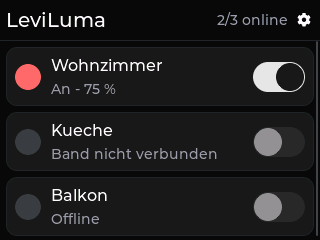
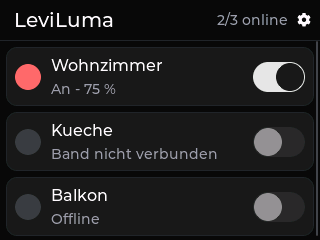
RockBase-UI: einheitliche Raender auf allen Bildschirmen
Kaesten (Karten, Listen-Buttons, Eingabefeld, Tastatur) nutzen die volle
Inhaltsbreite mit 6 px Rand, ihr Inhalt ist um 8 px eingerueckt. Texte,
Buttons und Zeilen direkt im Inhaltsbereich oder in Listen werden ebenso
eingerueckt (uiLabel, uiButton, uiRow, uiListButton, Kopfzeile ohne
Zurueck-Knopf). Damit beginnen Texte und freie Buttons ueberall bei 14 px.
Screenshots neu erzeugt.

Claude-Session: https://claude.ai/code/session_01XRbTNR4FRdpa3sNittWBxo

Changed region(s): [[0.0, 0.0292, 0.375, 0.1167]]

diff --git a/next/controller/main/ui_common.cpp b/next/controller/main/ui_common.cpp
@@ -9,6 +9,18 @@
 bool uiHoldScreen = false; // Touch-Kalibrierung und Kalibrierassistent nicht unterbrechen
 
 static UiRefreshFn refreshFn = nullptr;
+
+// Einheitliche Raender: Kaesten (Karten, Listen-Buttons, Eingabefelder, Tastatur) nutzen die volle
+// Inhaltsbreite (6 px Rand), ihr Inhalt ist um UI_INSET eingerueckt. Texte, Buttons und Zeilen direkt
+// im Inhaltsbereich oder in einer Liste werden ebenfalls um UI_INSET eingerueckt. So beginnt jeder
+// Text und jeder freie Button auf derselben Linie (6 + 8 = 14 px vom Bildschirmrand).
+static constexpr int UI_EDGE = 6;
+static constexpr int UI_INSET = 8;
+static const int kFlowTag = 0; // Markierung (user_data) fuer Inhaltsbereich und Listen
+
+static bool flowContainer(lv_obj_t *parent) {
+  return parent && lv_obj_get_user_data(parent) == (void *)&kFlowTag;
+}
 static lv_obj_t *header = nullptr, *headerTitle = nullptr;
 static uint32_t lastVersion = 0, lastFull = 0;
 static lv_theme_shadcn_palette_t themePalette{};
@@ -48,7 +60,8 @@ lv_obj_t *uiScreen(const char *title, UiBackFn back, UiRefreshFn refresh) {
   lv_obj_set_scrollable(header, false);
   lv_obj_set_style_radius(header, 0, 0);
   lv_obj_set_style_border_width(header, 0, 0);
-  lv_obj_set_style_pad_hor(header, 6, 0);
+  lv_obj_set_style_pad_left(header, back ? UI_EDGE : UI_EDGE + UI_INSET, 0); // Titel ohne Zurueck-Knopf auf der Textlinie
+  lv_obj_set_style_pad_right(header, UI_EDGE, 0);
   lv_obj_set_style_pad_ver(header, 0, 0);
   lv_obj_set_flex_flow(header, LV_FLEX_FLOW_ROW);
   lv_obj_set_flex_align(header, LV_FLEX_ALIGN_START, LV_FLEX_ALIGN_CENTER, LV_FLEX_ALIGN_CENTER);
@@ -80,7 +93,8 @@ lv_obj_t *uiScreen(const char *title, UiBackFn back, UiRefreshFn refresh) {
   lv_obj_set_style_radius(content, 0, 0);
   lv_obj_set_style_border_width(content, 0, 0);
   lv_obj_set_style_bg_opa(content, LV_OPA_TRANSP, 0);
-  lv_obj_set_style_pad_all(content, 6, 0);
+  lv_obj_set_style_pad_all(content, UI_EDGE, 0);
+  lv_obj_set_user_data(content, (void *)&kFlowTag);
   lv_obj_set_style_pad_row(content, 6, 0);
   lv_obj_set_flex_flow(content, LV_FLEX_FLOW_COLUMN);
   lv_obj_set_scrollbar_mode(content, LV_SCROLLBAR_MODE_AUTO);
@@ -110,7 +124,7 @@ lv_obj_t *uiCard(lv_obj_t *parent) {
   lv_theme_shadcn_set_surface(c, LV_THEME_SHADCN_SURFACE_CARD);
   lv_obj_set_width(c, LV_PCT(100));
   lv_obj_set_height(c, LV_SIZE_CONTENT);
-  lv_obj_set_style_pad_all(c, 8, 0);
+  lv_obj_set_style_pad_all(c, UI_INSET, 0);
   lv_obj_set_style_pad_row(c, 4, 0);
   lv_obj_set_flex_flow(c, LV_FLEX_FLOW_COLUMN);
   lv_obj_set_scrollable(c, false);
@@ -128,6 +142,9 @@ lv_obj_t *uiRow(lv_obj_t *parent) {
   lv_obj_set_flex_flow(r, LV_FLEX_FLOW_ROW);
   lv_obj_set_flex_align(r, LV_FLEX_ALIGN_START, LV_FLEX_ALIGN_CENTER, LV_FLEX_ALIGN_CENTER);
   lv_obj_set_scrollable(r, false);
+  if (flowContainer(parent)) {
+    lv_obj_set_style_pad_hor(r, UI_INSET, 0);
+  }
   return r;
 }
 
@@ -142,6 +159,9 @@ lv_obj_t *uiLabel(lv_obj_t *parent, const char *text, bool muted) {
     lv_obj_set_width(l, LV_PCT(100));
     lv_label_set_long_mode(l, LV_LABEL_LONG_MODE_WRAP);
   }
+  if (flowContainer(parent)) {
+    lv_obj_set_style_pad_hor(l, UI_INSET, 0);
+  }
   return l;
 }
 
@@ -155,6 +175,9 @@ lv_obj_t *uiButton(lv_obj_t *parent, const char *text, lv_event_cb_t cb, void *u
   lv_obj_set_style_pad_hor(b, 14, 0);
   lv_obj_set_style_margin_top(b, 6, 0);
   lv_obj_set_style_margin_bottom(b, 4, 0);
+  if (flowContainer(parent)) {
+    lv_obj_set_style_margin_left(b, UI_INSET, 0);
+  }
   lv_obj_t *l = lv_label_create(b);
   lv_label_set_text(l, text);
   lv_obj_center(l);
@@ -184,6 +207,7 @@ lv_obj_t *uiList(lv_obj_t *parent) {
   lv_obj_set_style_pad_row(l, 4, 0);
   lv_obj_set_flex_flow(l, LV_FLEX_FLOW_COLUMN);
   lv_obj_set_scrollable(l, false);
+  lv_obj_set_user_data(l, (void *)&kFlowTag);
   return l;
 }
 
@@ -199,6 +223,7 @@ lv_obj_t *uiListButton(lv_obj_t *list, const char *icon, const char *text, lv_ev
   lv_obj_set_width(b, LV_PCT(100));
   lv_obj_set_height(b, LV_SIZE_CONTENT);
   lv_obj_set_style_pad_ver(b, 6, 0);
+  lv_obj_set_style_pad_hor(b, UI_INSET, 0); // Text im Kasten auf derselben Linie wie in Karten
   lv_obj_set_flex_flow(b, LV_FLEX_FLOW_ROW);
   lv_obj_set_flex_align(b, LV_FLEX_ALIGN_START, LV_FLEX_ALIGN_CENTER, LV_FLEX_ALIGN_CENTER);
   lv_obj_set_style_pad_column(b, 8, 0);
